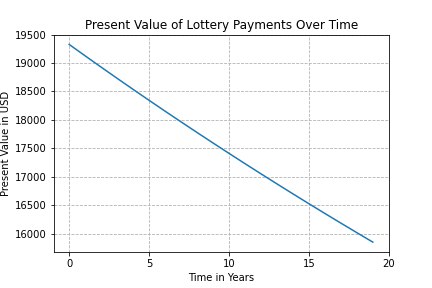
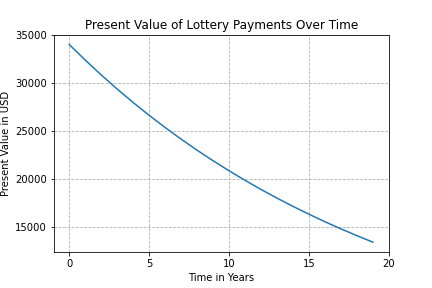
Minor error correction to r value

diff --git a/Present Value/Time Series/lottery_present_value.py b/Present Value/Time Series/lottery_present_value.py
@@ -31,7 +31,7 @@ def print_discounted_payments_pv(cashflows):
     locale.setlocale(locale.LC_ALL, '')
     print(locale.currency(discounted_payments_pv(cashflows), grouping=True))
 
-r = random.randrange(90, 120, 5) / 10000
+r = 0.05
 cashflows = np.ones(20) * random.randrange(10000, 100001)
 num_of_payments = cashflows.size
 discount_payments(num_of_payments, r)
